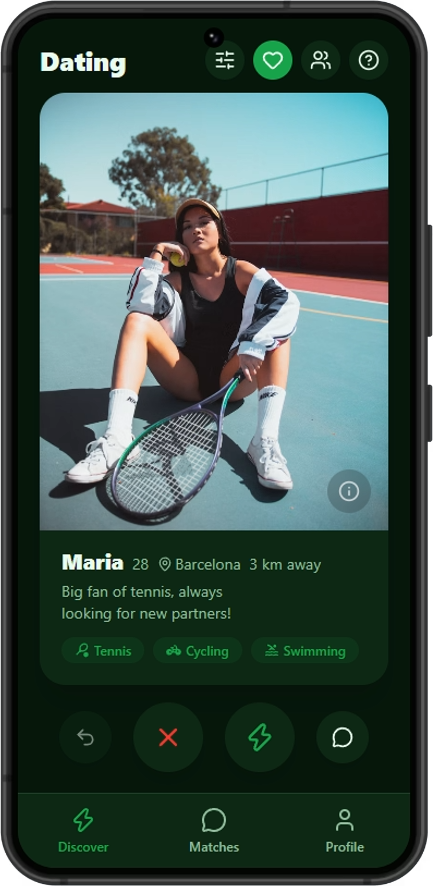
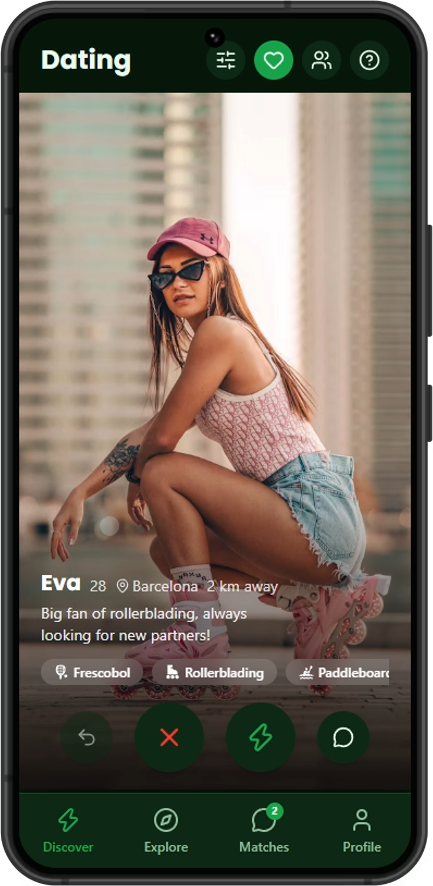
wip

diff --git a/src/routes/discover/+page.svelte b/src/routes/discover/+page.svelte
@@ -3,7 +3,6 @@
   import type { UserProfile } from "$lib/types";
   import { goto } from "$app/navigation";
   import { page } from "$app/state";
-  import { scale } from "svelte/transition";
   import {
     SlidersHorizontal,
     User,
@@ -582,7 +581,7 @@
   let passOpacity = $derived(Math.max(0, Math.min(1, -currentX / 100)));
 </script>
 
-<div class="flex h-dvh flex-col overflow-hidden bg-bg pb-22">
+<div class="flex h-dvh flex-col overflow-hidden bg-bg pb-18">
   {#if needsVerification}
     <!-- Email verification gate: keeps unverified email/password accounts out of Discover -->
     <div
@@ -691,7 +690,7 @@
 
     <!-- Card stack -->
     <div
-      class="relative flex min-h-0 flex-1 flex-col items-center justify-center px-5"
+      class="relative flex min-h-0 flex-1 flex-col items-center justify-center"
     >
       {#if loading}
         <Loading fullscreen={false} class="absolute inset-0" />
@@ -713,11 +712,11 @@
         </div>
       {:else}
         <!-- Card stack wrapper: keeps all layers anchored to the same box -->
-        <div class="relative min-h-0 w-full max-w-md flex-1">
+        <div class="relative min-h-0 w-full flex-1">
           <!-- Background cards (stacked look) -->
           {#if users[2]}
             <div
-              class="absolute inset-0 flex flex-col scale-[0.94] overflow-hidden rounded-3xl bg-surface shadow-md"
+              class="absolute inset-0 flex flex-col overflow-hidden bg-surface shadow-md"
             >
               <div
                 class="flex-1 min-h-0 w-full bg-gradient-to-br from-primary/20 to-primary-dark/20 flex items-center justify-center"
@@ -734,7 +733,7 @@
           {/if}
           {#if users[1]}
             <div
-              class="absolute inset-0 flex flex-col scale-[0.97] overflow-hidden rounded-3xl bg-surface shadow-md"
+              class="absolute inset-0 flex flex-col overflow-hidden bg-surface shadow-md"
             >
               <div
                 class="flex-1 min-h-0 w-full bg-gradient-to-br from-primary/20 to-primary-dark/20 flex items-center justify-center"
@@ -747,7 +746,6 @@
                   class="h-full w-full object-cover pointer-events-none"
                 />
               </div>
-              <ProfileCardInfo user={users[1]} {t} />
             </div>
           {/if}
 
@@ -760,13 +758,15 @@
               onpointermove={onPointerMove}
               onpointerup={onPointerUp}
               onpointercancel={onPointerUp}
-              in:scale={{ start: 0.95, duration: 220, opacity: 1 }}
               style="transform: translateX({currentX}px) rotate({rotation}deg); transition: {dragging
                 ? 'none'
                 : exiting
                   ? 'transform 320ms cubic-bezier(0.22, 1, 0.36, 1)'
-                  : 'transform 0.3s'}; touch-action: none;"
-              class="absolute inset-0 flex flex-col overflow-hidden rounded-3xl bg-surface shadow-xl select-none cursor-grab active:cursor-grabbing"
+                  : 'transform 0.3s'}, border-radius 0.2s; touch-action: none;"
+              class="absolute inset-0 flex flex-col overflow-hidden bg-surface shadow-xl select-none cursor-grab active:cursor-grabbing {dragging ||
+              exiting
+                ? 'rounded-3xl'
+                : ''}"
             >
               <!-- Photo progress segments (Tinder-style tap navigation) -->
               {#if currentPhotos.length > 1}
@@ -801,19 +801,6 @@
                 {:else}
                   <User class="size-24 text-primary/40" />
                 {/if}
-
-                <!-- View profile -->
-                <button
-                  onpointerdown={(e) => e.stopPropagation()}
-                  onclick={(e) => {
-                    e.stopPropagation();
-                    goto(`/profile/${users[0].uid}`);
-                  }}
-                  aria-label={t.t("profile.viewProfile")}
-                  class="absolute bottom-4 right-4 z-10 flex size-10 items-center justify-center rounded-full bg-black/20 text-white/70 backdrop-blur-sm"
-                >
-                  <Info class="size-5" />
-                </button>
               </div>
 
               <!-- Like / Pass overlays -->
@@ -842,24 +829,24 @@
               <ProfileCardInfo user={users[0]} {t} />
             </div>
           {/key}
-        </div>
 
-        <!-- Action buttons -->
-        <ActionButtons
-          class="mt-4"
-          onPass={() => swipe("pass")}
-          onLike={() => swipe("like")}
-          disabled={exiting}
-          likeProgress={likeOpacity}
-          passProgress={passOpacity}
-          passLabel={t.t("common.pass")}
-          likeLabel={t.t("common.like")}
-          onUndo={undoLastPass}
-          canUndo={!!lastPass}
-          undoLabel={t.t("common.undo")}
-          onMessage={handleMessage}
-          messageLabel={t.t("common.message")}
-        />
+          <!-- Action buttons: overlaid on the card's bottom shadow, not in flex flow -->
+          <ActionButtons
+            class="absolute inset-x-0 bottom-4 z-20"
+            onPass={() => swipe("pass")}
+            onLike={() => swipe("like")}
+            disabled={exiting}
+            likeProgress={likeOpacity}
+            passProgress={passOpacity}
+            passLabel={t.t("common.pass")}
+            likeLabel={t.t("common.like")}
+            onUndo={undoLastPass}
+            canUndo={!!lastPass}
+            undoLabel={t.t("common.undo")}
+            onMessage={handleMessage}
+            messageLabel={t.t("common.message")}
+          />
+        </div>
       {/if}
     </div>
 

diff --git a/src/lib/stores/language.ts b/src/lib/stores/language.ts
@@ -15,6 +15,7 @@ export const LANGUAGES: LanguageOption[] = [
 const MESSAGES = {
     en: {
         'nav.discover': 'Discover',
+        'nav.explore': 'Explore',
         'nav.matches': 'Matches',
         'nav.profile': 'Profile',
         'language.en': 'English',
@@ -84,6 +85,8 @@ const MESSAGES = {
         'home.step2Desc': 'Swipe through people who share your activities near you.',
         'home.step3Title': 'Match and play',
         'home.step3Desc': 'Chat, plan a session, and meet up to play together.',
+        'home.stepExploreTitle': 'Explore and check in',
+        'home.stepExploreDesc': 'See who’s playing nearby on the map and check in to your spot.',
         'home.activitiesTitle': 'Find your partner',
         'home.activitiesSubtitle': 'Connect through the sports and activities you love.',
         'home.peopleInterested': 'people interested',
@@ -436,6 +439,8 @@ const EXTRA_MESSAGES: Record<LanguageCode, Partial<Record<TranslationKey, string
         'home.step2Desc': 'Desliza entre personas que comparten tus actividades cerca de ti.',
         'home.step3Title': 'Conecta y juega',
         'home.step3Desc': 'Chatea, organiza una sesión y quedad para jugar juntos.',
+        'home.stepExploreTitle': 'Explora y haz check-in',
+        'home.stepExploreDesc': 'Mira quién juega cerca en el mapa y haz check-in en tu sitio.',
         'home.activitiesTitle': 'Encuentra a tu compañero', 'home.activitiesSubtitle': 'Conecta a través de los deportes y actividades que te gustan.',
         'home.peopleInterested': 'personas interesadas',
         'home.activitiesIntroTitle': 'Match por actividades compartidas',
@@ -608,7 +613,7 @@ const EXTRA_MESSAGES: Record<LanguageCode, Partial<Record<TranslationKey, string
         'profile.invalidSocialLink': 'Introduce un enlace válido',
         'common.add': 'Añadir',
         'common.remove': 'Eliminar',
-        'nav.map': 'Mapa',
+        'nav.explore': 'Explorar',
         'map.title': 'Mapa en vivo',
         'map.sheetTitle': 'Registrar check-in',
         'map.pickSport': '¿A qué vas a jugar?',
@@ -631,6 +636,8 @@ const EXTRA_MESSAGES: Record<LanguageCode, Partial<Record<TranslationKey, string
         'home.step2Desc': 'Scorri tra le persone che condividono le tue attività vicino a te.',
         'home.step3Title': 'Fai match e gioca',
         'home.step3Desc': 'Chatta, organizza una sessione e incontratevi per giocare insieme.',
+        'home.stepExploreTitle': 'Esplora e fai check-in',
+        'home.stepExploreDesc': 'Guarda chi gioca vicino a te sulla mappa e fai check-in nel tuo posto.',
         'home.activitiesTitle': 'Trova il tuo compagno', 'home.activitiesSubtitle': 'Connettiti attraverso gli sport e le attività che ami.',
         'home.peopleInterested': 'persone interessate',
         'home.activitiesIntroTitle': 'Match in base alle attività condivise',
@@ -797,7 +804,7 @@ const EXTRA_MESSAGES: Record<LanguageCode, Partial<Record<TranslationKey, string
         'activity.jiujitsu': 'Jiu-Jitsu',
         'activity.judo': 'Judo',
         'activity.mma': 'MMA',
-        'nav.map': 'Mappa',
+        'nav.explore': 'Esplora',
         'map.title': 'Mappa dal vivo',
         'map.sheetTitle': 'Fai check-in',
         'map.pickSport': 'A cosa giochi?',

diff --git a/src/lib/components/MarkerInfoSheet.svelte b/src/lib/components/MarkerInfoSheet.svelte
@@ -77,12 +77,18 @@
 >
   {#if checkin}
     <div class="flex flex-col items-center gap-3 px-7 pb-8 pt-2 text-center">
-      <img
-        src={checkin.photoURL ||
-          getFallbackPhotoURL(checkin.uid, checkin.gender ?? "")}
-        alt={checkin.displayName}
-        class="size-20 rounded-full object-cover"
-      />
+      <a
+        href={`/profile/${checkin.uid}`}
+        aria-label={checkin.displayName}
+        class="rounded-full focus-visible:outline-2 focus-visible:outline-offset-2 focus-visible:outline-primary"
+      >
+        <img
+          src={checkin.photoURL ||
+            getFallbackPhotoURL(checkin.uid, checkin.gender ?? "")}
+          alt={checkin.displayName}
+          class="size-20 rounded-full object-cover"
+        />
+      </a>
       <h2 class="text-xl font-black text-text">{checkin.displayName}</h2>
       <span
         class="flex items-center gap-2 rounded-full bg-primary/10 px-4 py-2 text-sm font-bold text-primary"

diff --git a/src/routes/pitch/+page.svelte b/src/routes/pitch/+page.svelte
@@ -35,6 +35,7 @@
   import filtersScreen from "$lib/assets/screens/filters.png?enhanced";
   import discoverScreen from "$lib/assets/screens/discover.png?enhanced";
   import matchesScreen from "$lib/assets/screens/matchs.png?enhanced";
+  import exploreScreen from "$lib/assets/screens/explore.png?enhanced";
 
   // Same forced-dark-mode technique as the homepage hero: keeps the visitor's own chosen
   // accent color (theme.ts), just always renders the dark variant of it - English copy only.
@@ -67,6 +68,12 @@
       title: "Match & play",
       desc: "Chat with your matches and plan your next session.",
       screen: matchesScreen,
+    },
+    {
+      icon: MapPin,
+      title: "Explore & check in",
+      desc: "See who's playing nearby on the map and check in to your spot.",
+      screen: exploreScreen,
     },
   ] as const;
 

diff --git a/src/routes/+page.svelte b/src/routes/+page.svelte
@@ -17,6 +17,7 @@
     SlidersHorizontal,
     Compass,
     MessagesSquare,
+    MapPin,
     LogIn,
   } from "@lucide/svelte";
   import footballImg from "$lib/assets/homepage/football.jpg?enhanced";
@@ -28,6 +29,7 @@
   import filtersScreen from "$lib/assets/screens/filters.png?enhanced";
   import discoverScreen from "$lib/assets/screens/discover.png?enhanced";
   import matchesScreen from "$lib/assets/screens/matchs.png?enhanced";
+  import exploreScreen from "$lib/assets/screens/explore.png?enhanced";
 
   let t = $derived(createTranslator($activeLanguage));
 
@@ -75,6 +77,12 @@
       titleKey: "step3Title",
       descKey: "step3Desc",
       screen: matchesScreen,
+    },
+    {
+      icon: MapPin,
+      titleKey: "stepExploreTitle",
+      descKey: "stepExploreDesc",
+      screen: exploreScreen,
     },
   ] as const;
 

diff --git a/src/lib/components/BottomNav.svelte b/src/lib/components/BottomNav.svelte
@@ -1,5 +1,5 @@
 <script lang="ts">
-  import { Zap, MapPin, MessageCircle, User } from "@lucide/svelte";
+  import { Compass, Zap, MessageCircle, User } from "@lucide/svelte";
   import { unreadMatchCount } from "$lib/stores/unread";
   import { activeLanguage, createTranslator } from "$lib/stores/language";
 
@@ -9,7 +9,7 @@
   let t = $derived(createTranslator($activeLanguage));
   const tabs = [
     { id: "discover", href: "/discover", icon: Zap, key: "nav.discover" },
-    { id: "map", href: "/map", icon: MapPin, key: "nav.map" },
+    { id: "map", href: "/map", icon: Compass, key: "nav.explore" },
     {
       id: "matches",
       href: "/matches",

diff --git a/src/lib/components/ProfileCardInfo.svelte b/src/lib/components/ProfileCardInfo.svelte
@@ -33,7 +33,7 @@
 </script>
 
 <div
-  class="pointer-events-none absolute inset-x-0 bottom-0 z-10 bg-gradient-to-t from-black/85 via-black/45 to-transparent px-5 pb-5 pt-16"
+  class="pointer-events-none absolute inset-x-0 bottom-0 z-10 bg-gradient-to-t from-black/85 via-black/45 to-transparent px-5 pb-24 pt-28"
 >
   <div class="pointer-events-auto flex items-center gap-2">
     <h3 class="text-xl font-black text-white -mt-1.5">
